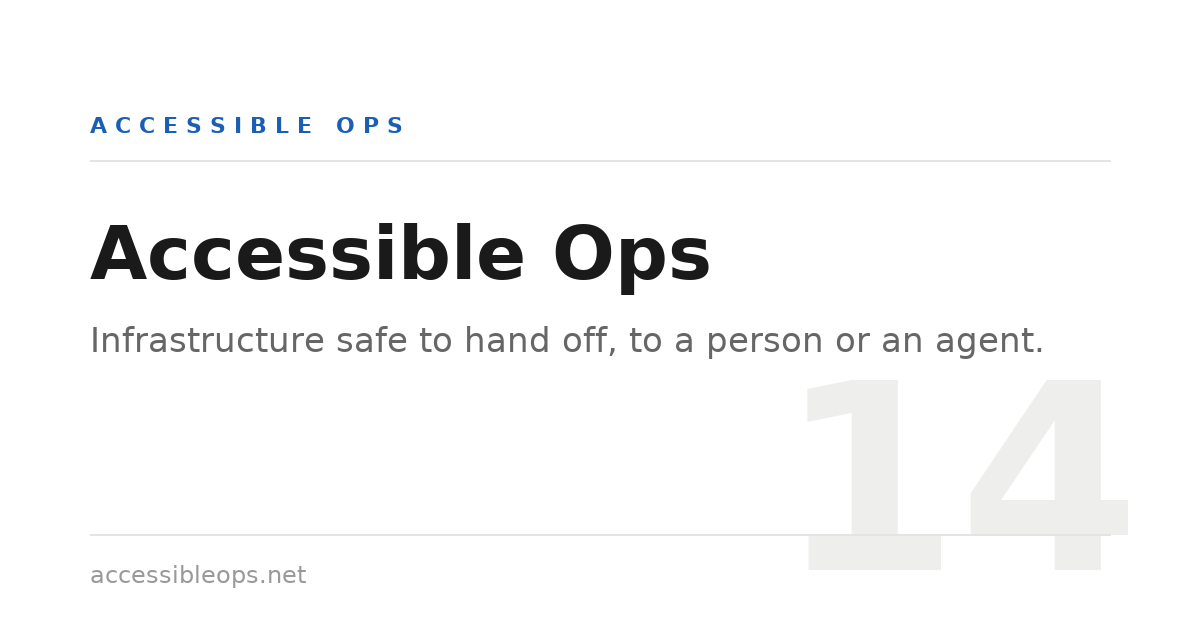
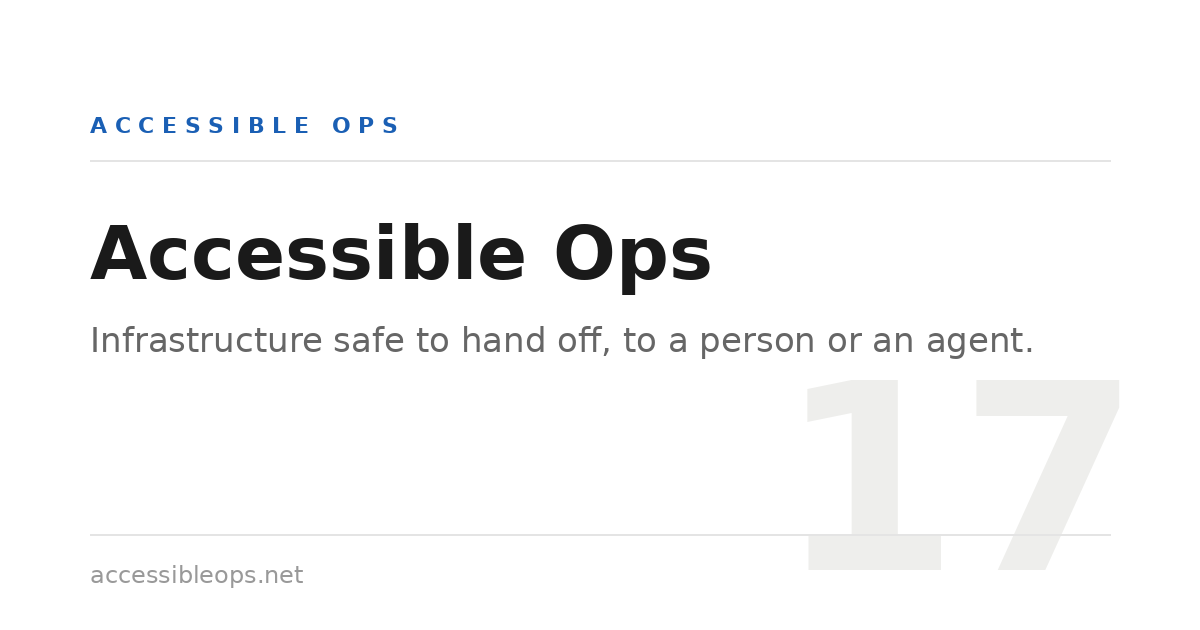
Social preview: seventeen properties

diff --git a/scripts/gen_social_preview.py b/scripts/gen_social_preview.py
@@ -24,7 +24,7 @@ margin = 90
 
 # Faint oversized numeral, echoing the numbered-properties list style used
 # on the factor pages (.factor-num).
-draw.text((W - 60, H - 60), "14", font=bold(260), fill=(238, 238, 236), anchor="rs")
+draw.text((W - 60, H - 60), "17", font=bold(260), fill=(238, 238, 236), anchor="rs")
 
 # Eyebrow label
 draw.text((margin, 112), "A C C E S S I B L E   O P S", font=bold(22), fill=LINK)
